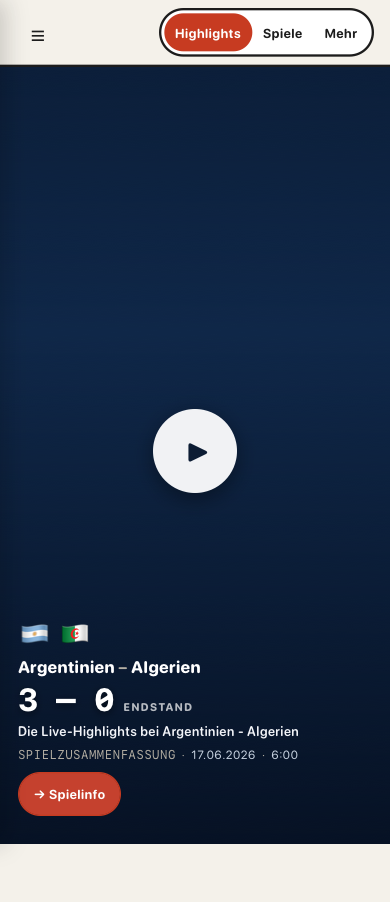
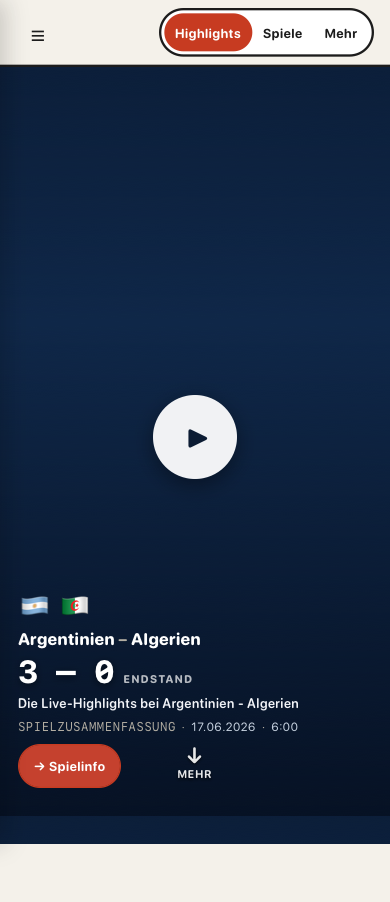
feat: peek-next-slide + animated "↓ Mehr" hint on first slide (v1.9.10)
Scroll affordance for the mobile Reels feed. First-time visitors
weren't picking up that the feed is swipeable.

Two layered cues:

1. PEEK — new `--wm-peek-h: 28px` makes `.wm-slide` 28px shorter than
   the scroll-snap window. The next clip's top edge stays visible at
   the bottom of the viewport (background bleeds through the gap).
   Overridden to 0 inside the desktop card block — each card is
   self-framed, no peek needed.

2. HINT — an animated "↓ Mehr" chevron centred at the bottom of the
   first slide. Bounces gently, fades out the moment the feed scrolls
   past 30 px (one-shot per session via `scrollHintConsumed` flag).
   Hidden on the desktop card layout via `display: none` inside the
   same gate.

Accessibility: `aria-hidden="true"` on the hint (decorative, the
swipe is reachable without it), `prefers-reduced-motion` already
flattens the bounce animation via the existing rule at line 631.

Visual harness baseline updated for the iPhone highlights-loaded
state (intentional delta); 17/17 other baselines unchanged, second
run 0% diff.

SHELL_CACHE → wm-shell-v37.

Changed region(s): [[0.0308, 0.6519, 0.7692, 0.9313], [0.3692, 0.4346, 0.6154, 0.5588]]

diff --git a/web/wm/wm.css b/web/wm/wm.css
@@ -39,6 +39,11 @@
      below so dots don't float above the actual timeline. */
   --wm-player-h: 54px;
 
+  /* Peek of the next slide visible at the bottom of the current slide as a
+     scroll affordance (v1.9.10). Mobile only — set to 0 in the desktop card
+     block where each clip is a centered card with its own framing. */
+  --wm-peek-h: 28px;
+
   /* Pull-to-refresh pill colour (light page → accent pill) */
   --ptr-bg: #c73b21;
 }
@@ -331,9 +336,11 @@ html, body {
 
 .wm-slide {
   position: relative;
-  /* Match `.wm-feed`'s subtracted height so each slide fills exactly one screen
-     below the bar — scroll-snap stays accurate. */
-  height: calc(100dvh - var(--wm-bar-h));
+  /* Slide is `--wm-peek-h` shorter than the snap window so the next clip's
+     top edge peeks above the bottom of the viewport — a "more below" hint
+     without an explicit "scroll" affordance on every slide. Desktop card
+     block flips `--wm-peek-h` to 0 (each card is already self-framed). */
+  height: calc(100dvh - var(--wm-bar-h) - var(--wm-peek-h));
   scroll-snap-align: start;
   scroll-snap-stop: always;
   overflow: hidden;
@@ -341,6 +348,38 @@ html, body {
   color: #fff;
   display: flex;
   align-items: flex-end;
+}
+
+/* Animated chevron + "Mehr" copy on the FIRST slide only — guides a first-time
+   visitor to swipe. Fades out the moment the feed has scrolled past ~30 px.
+   Hidden on the desktop card layout (peek is 0 there; the card framing makes
+   "more below" obvious). */
+.wm-scroll-hint {
+  position: absolute;
+  left: 50%;
+  bottom: calc(var(--wm-peek-h) + 8px);
+  transform: translateX(-50%);
+  display: flex; flex-direction: column; align-items: center;
+  gap: 0;
+  color: rgba(255,255,255,.9);
+  font-family: var(--wm-rounded);
+  font-size: 11px; font-weight: 700; letter-spacing: .04em;
+  text-transform: uppercase;
+  text-shadow: 0 1px 3px rgba(0,0,0,.75);
+  pointer-events: none;
+  z-index: 7;
+  animation: wm-scroll-hint-bounce 1.7s ease-in-out infinite;
+  transition: opacity .35s ease;
+}
+.wm-scroll-hint::before {
+  content: "↓";
+  font-size: 22px; line-height: 1;
+  margin-bottom: 2px;
+}
+.wm-scroll-hint.is-hidden { opacity: 0; animation: none; }
+@keyframes wm-scroll-hint-bounce {
+  0%, 100% { transform: translate(-50%, 0); }
+  50%      { transform: translate(-50%, 5px); }
 }
 /* On mobile this fills the slide (inset:0) so every absolute child below —
    .wm-thumb / .wm-scrim / .wm-playbtn / .wm-video / .wm-marker-rail — anchors
@@ -615,6 +654,10 @@ html, body {
      gate but still receives in-page <video> controls of the same ~34px height
      when not fullscreened, so the desktop override is correct here too. */
   :root { --wm-player-h: 34px; }
+  /* Card layout has its own framing — no need to peek the next card. */
+  :root { --wm-peek-h: 0px; }
+  /* "Mehr ↓" hint is mobile-only — desktop cards make scrollability obvious. */
+  .wm-scroll-hint { display: none; }
 
   .wm-feed { padding: 28px 24px 0; background: var(--wm-feed-bg); }
 

diff --git a/web/wm/feed.js b/web/wm/feed.js
@@ -152,6 +152,34 @@ function render() {
     });
   });
   observePauses(feed);
+  attachScrollHint(feed);
+}
+
+/** First-slide scroll affordance: animated "↓ Mehr" hint that fades the moment
+ *  the user has scrolled past ~30 px. Hidden on the desktop card layout via
+ *  CSS (peek = 0 there). One-shot per session — if the user has already
+ *  scrolled once, the hint is suppressed on re-renders. */
+let scrollHintConsumed = false;
+function attachScrollHint(feed) {
+  if (scrollHintConsumed) return;
+  if (feed.scrollTop > 30) { scrollHintConsumed = true; return; }
+  const firstSlide = feed.querySelector(".wm-slide");
+  if (!firstSlide || firstSlide.classList.contains("wm-empty")) return;
+  // Avoid duplicates on re-render (subscribe()-driven repaints).
+  firstSlide.querySelector(".wm-scroll-hint")?.remove();
+  const hint = document.createElement("div");
+  hint.className = "wm-scroll-hint";
+  hint.setAttribute("aria-hidden", "true");
+  hint.textContent = "Mehr";
+  firstSlide.appendChild(hint);
+  const onScroll = () => {
+    if (feed.scrollTop <= 30) return;
+    hint.classList.add("is-hidden");
+    scrollHintConsumed = true;
+    feed.removeEventListener("scroll", onScroll);
+    setTimeout(() => hint.remove(), 400);
+  };
+  feed.addEventListener("scroll", onScroll, { passive: true });
 }
 
 // ---------------------------------------------------------------------------

diff --git a/web/appshell.js b/web/appshell.js
@@ -21,7 +21,7 @@
 "use strict";
 
 (function () {
-  var APP_BUILT = "1.9.9"; // version of THIS shipped asset
+  var APP_BUILT = "1.9.10"; // version of THIS shipped asset
 
   // ── 1. Version stamp ─────────────────────────────────────────────────────
   function showVersion() {

diff --git a/web/sw.js b/web/sw.js
@@ -18,7 +18,7 @@
 
 "use strict";
 
-const SHELL_CACHE = "wm-shell-v36";
+const SHELL_CACHE = "wm-shell-v37";
 const DATA_CACHE = "wm-data-v2";
 const THUMB_CACHE = "wm-thumbs-v2";
 const THUMB_MAX = 120; // cap stored thumbnails